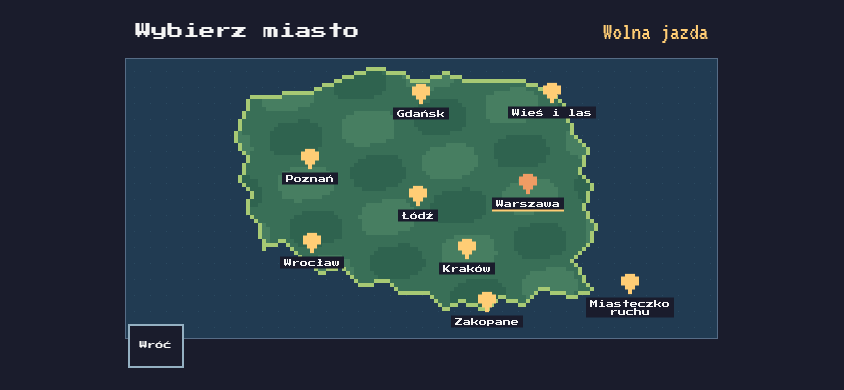
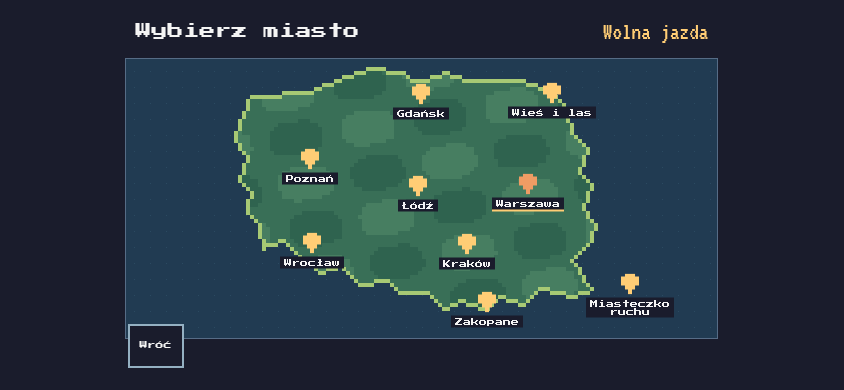
fix(ui): zachowaj odstępy przy pomniejszeniu mapy

Changed region(s): [[0.4621, 0.4308, 0.5237, 0.5846], [0.5237, 0.5846, 0.5853, 0.7077]]

diff --git a/src/scenes/CityPicker.ts b/src/scenes/CityPicker.ts
@@ -14,8 +14,8 @@ const pins = [
   { id: 'wroclaw', x: 210, y: 228 },
   { id: 'gdansk', x: 319, y: 79 },
   { id: 'poznan', x: 208, y: 144 },
-  { id: 'lodz', x: 316, y: 181 },
-  { id: 'krakow', x: 365, y: 234 },
+  { id: 'lodz', x: 316, y: 171 },
+  { id: 'krakow', x: 365, y: 229 },
   { id: 'zakopane', x: 385, y: 287 },
   { id: 'wies', x: 450, y: 78 },
   { id: defaultMap, x: 528, y: 269 },
